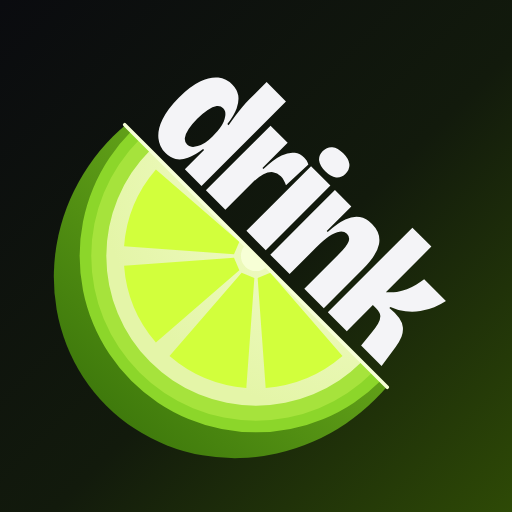
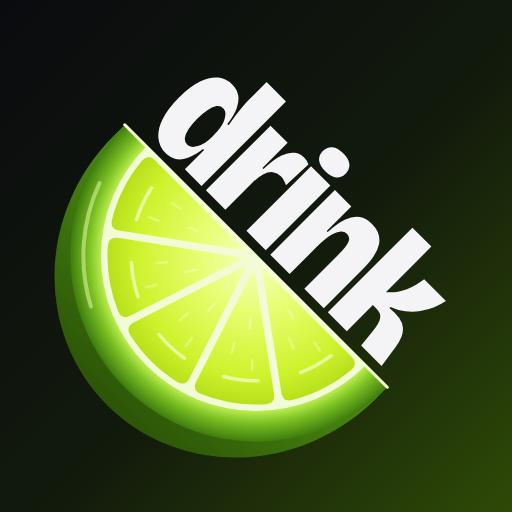
feat(drink): meio limão da marca mais caprichado
Cinco gomos inteiros, com o corte passando entre dois deles (como num
limão de verdade), polpa com brilho de suco, casca com volume e
reflexo. A palavra, o giro e os usos continuam iguais; ícones
refeitos com o desenho novo.

Claude-Session: https://claude.ai/code/session_01Ru2KBTfK6RFCz7MhiDquUf

Changed region(s): [[0.0938, 0.25, 0.75, 0.9062]]

diff --git a/drink/app/index.html b/drink/app/index.html
@@ -130,9 +130,9 @@
     <symbol id="i-cupom" viewBox="0 0 24 24"><path d="M4 7.5A1.5 1.5 0 015.5 6h13A1.5 1.5 0 0120 7.5V10a2 2 0 000 4v2.5a1.5 1.5 0 01-1.5 1.5h-13A1.5 1.5 0 014 16.5V14a2 2 0 000-4z"/><path d="M14.5 6.5v11" style="stroke-dasharray:2 2.2"/></symbol>
     <symbol id="i-carro" viewBox="0 0 24 24"><path d="M3.5 15.5v-3l2-4.6a2 2 0 011.8-1.2h9.4a2 2 0 011.8 1.2l2 4.6v3a1 1 0 01-1 1h-1"/><path d="M8.3 16.5h7.4M5.5 12h13"/><circle cx="6.5" cy="16.5" r="1.8"/><circle cx="17.5" cy="16.5" r="1.8"/></symbol>
     <symbol id="i-limao" viewBox="0 0 32 32"><circle cx="16" cy="16" r="15.2" style="fill:var(--limao-casca, #8CD62A);stroke:none"/><circle cx="16" cy="16" r="12.9" style="fill:var(--limao-miolo, #F3FFC4);stroke:none"/><path style="fill:var(--limao-polpa, #D2FF3C);stroke:none" d="M16.14 14.11L16.83 4.63A11.4 11.4 0 0 1 23.45 7.37L17.24 14.56ZM17.44 14.76L24.63 8.55A11.4 11.4 0 0 1 27.37 15.17L17.89 15.86ZM17.89 16.14L27.37 16.83A11.4 11.4 0 0 1 24.63 23.45L17.44 17.24ZM17.24 17.44L23.45 24.63A11.4 11.4 0 0 1 16.83 27.37L16.14 17.89ZM15.86 17.89L15.17 27.37A11.4 11.4 0 0 1 8.55 24.63L14.76 17.44ZM14.56 17.24L7.37 23.45A11.4 11.4 0 0 1 4.63 16.83L14.11 16.14ZM14.11 15.86L4.63 15.17A11.4 11.4 0 0 1 7.37 8.55L14.56 14.76ZM14.76 14.56L8.55 7.37A11.4 11.4 0 0 1 15.17 4.63L15.86 14.11Z"/></symbol>
-    <!-- a marca: o limão partido ao meio na diagonal e "drink" do outro lado do corte. A palavra segue a cor do texto -->
-    <clipPath id="marca-corte"><path d="M56 500H944V981H56Z"/></clipPath><linearGradient id="marca-casca" x1="0" y1="0" x2="0" y2="1"><stop offset="0" stop-color="#7DBF22"/><stop offset="1" stop-color="#3F7A0C"/></linearGradient><radialGradient id="marca-branco" cx=".5" cy="0" r=".9"><stop offset="0" stop-color="#F7FFD6"/><stop offset="1" stop-color="#E4F5A8"/></radialGradient>
-    <g id="marca-meio"><g clip-path="url(#marca-corte)"><ellipse cx="500" cy="533.3" rx="370" ry="388.5" fill="url(#marca-casca)"/><g transform="translate(130 130) scale(23.1250)"><circle cx="16" cy="16" r="15.2" fill="#8CD62A"/><circle cx="16" cy="16" r="14.2" fill="#A6E33C"/><circle cx="16" cy="16" r="12.9" fill="url(#marca-branco)"/><path fill="#D2FF3C" d="M16.14 14.11L16.83 4.63A11.4 11.4 0 0 1 23.45 7.37L17.24 14.56ZM17.44 14.76L24.63 8.55A11.4 11.4 0 0 1 27.37 15.17L17.89 15.86ZM17.89 16.14L27.37 16.83A11.4 11.4 0 0 1 24.63 23.45L17.44 17.24ZM17.24 17.44L23.45 24.63A11.4 11.4 0 0 1 16.83 27.37L16.14 17.89ZM15.86 17.89L15.17 27.37A11.4 11.4 0 0 1 8.55 24.63L14.76 17.44ZM14.56 17.24L7.37 23.45A11.4 11.4 0 0 1 4.63 16.83L14.11 16.14ZM14.11 15.86L4.63 15.17A11.4 11.4 0 0 1 7.37 8.55L14.56 14.76ZM14.76 14.56L8.55 7.37A11.4 11.4 0 0 1 15.17 4.63L15.86 14.11Z"/><circle cx="16" cy="16" r="1.3" fill="#F7FFD6"/></g></g><path d="M130 500H870" stroke="#F7FFD6" stroke-width="7" stroke-linecap="round"/></g>
+    <!-- a marca: o limão partido ao meio na diagonal (cinco gomos, o corte entre dois deles) e "drink" do outro lado do corte. A palavra segue a cor do texto -->
+    <clipPath id="marca-corte"><path d="M56 500H944V981H56Z"/></clipPath><linearGradient id="marca-lado" x1="0" y1="0" x2="0" y2="1"><stop offset=".5" stop-color="#4A8A12"/><stop offset="1" stop-color="#2C5507"/></linearGradient><radialGradient id="marca-casca" gradientUnits="userSpaceOnUse" cx="500" cy="500" r="370"><stop offset=".84" stop-color="#B4EA4A"/><stop offset=".9" stop-color="#7CC123"/><stop offset="1" stop-color="#3F7D0E"/></radialGradient><radialGradient id="marca-polpa" gradientUnits="userSpaceOnUse" cx="500" cy="500" r="296"><stop offset="0" stop-color="#F6FFC4"/><stop offset=".4" stop-color="#E6FD6E"/><stop offset=".82" stop-color="#CDF22B"/><stop offset="1" stop-color="#B7E01B"/></radialGradient>
+    <g id="marca-meio"><g clip-path="url(#marca-corte)"><ellipse cx="500" cy="531.5" rx="370" ry="388.5" fill="url(#marca-lado)"/><circle cx="500" cy="500" r="370" fill="url(#marca-casca)"/><circle cx="500" cy="500" r="308.9" fill="#F3FBD6"/><path fill="url(#marca-polpa)" d="M522.8,507.4L777.4,507.4Q795.9,507.4 794.9,525.9A296 296 0 0 1 753.8,652.4Q743.7,667.9 728.8,657.1ZM514.1,519.4L720.1,669Q735,679.9 723.3,694.3A296 296 0 0 1 615.8,772.4Q598.5,779.1 592.8,761.5ZM500,523.9L578.7,766.1Q584.4,783.7 566.5,788.4A296 296 0 0 1 433.5,788.4Q415.6,783.7 421.3,766.1ZM485.9,519.4L407.2,761.5Q401.5,779.1 384.2,772.4A296 296 0 0 1 276.7,694.3Q265,679.9 279.9,669ZM477.2,507.4L271.2,657.1Q256.3,667.9 246.2,652.4A296 296 0 0 1 205.1,525.9Q204.1,507.4 222.6,507.4Z"/><path d="M620.6 530.1L640.7 535.1M663.5 569.4L682.6 577.5M703.4 539.5L723.7 543.5M579.9 595.2L593.2 611.1M591.5 652.2L602.1 670M641.3 651.5L655.4 666.7M508.7 624L510.1 644.7M484.5 676.9L482.7 697.6M525.3 705.7L527.8 726.2M434.1 605.4L423.1 623M383.5 634L369.9 649.7M399.5 681.2L389.5 699.3M384.7 546.6L365.5 554.3M327 540L306.8 544.6M312.2 587.6L293.4 596.3" fill="none" stroke="#FFFFF0" stroke-opacity=".32" stroke-width="5" stroke-linecap="round"/><path d="M746.2 534.6A248.6 248.6 0 0 1 727.1 601.1M678.9 672.7A248.6 248.6 0 0 1 624.3 715.3M543.2 744.9A248.6 248.6 0 0 1 474 747.3M391 723.5A248.6 248.6 0 0 1 333.6 684.8M280.5 616.7A248.6 248.6 0 0 1 256.8 551.7" fill="none" stroke="#FFFFF0" stroke-opacity=".6" stroke-width="7" stroke-linecap="round"/><path d="M338.5,803.8A344.1 344.1 0 0 1 176.7,617.7" fill="none" stroke="#E9FFB0" stroke-opacity=".5" stroke-width="8" stroke-linecap="round"/><circle cx="500" cy="500" r="16.6" fill="#F3FBD6"/></g><path d="M130 500H870" stroke="#F7FFD6" stroke-width="6" stroke-linecap="round"/></g>
     <g id="marca-letras"><g transform="translate(500 478) scale(0.345) translate(-980 0)"><path style="fill:currentColor;stroke:none" d="M190 13Q139 13 100 -19Q61 -51 40 -113Q18 -176 18 -267Q18 -360 39 -420Q60 -481 97 -511Q134 -540 182 -540Q222 -540 251 -520Q279 -500 298 -460Q316 -420 324 -358H334Q328 -392 323 -425Q319 -457 316 -487Q313 -517 313 -543V-690H471V-216V0H335V-157H327Q319 -97 301 -59Q283 -22 255 -4Q228 13 190 13ZM243 -110Q258 -110 271 -119Q284 -129 293 -147Q303 -166 309 -191Q314 -216 314 -247V-260Q314 -288 310 -312Q306 -335 299 -353Q292 -370 283 -382Q274 -394 264 -400Q253 -406 242 -406Q221 -406 207 -388Q193 -369 186 -336Q179 -302 179 -257Q179 -214 186 -180Q193 -147 207 -128Q222 -110 243 -110ZM507 0V-292V-528H647V-322H655Q658 -405 674 -451Q691 -498 717 -516Q743 -535 774 -535Q785 -535 797 -533Q809 -530 820 -524L813 -348Q799 -355 785 -359Q770 -363 756 -363Q727 -363 707 -348Q687 -332 676 -301Q666 -270 666 -222V0ZM838 0V-528H996V0ZM917 -565Q872 -565 848 -584Q824 -603 824 -638Q824 -674 848 -693Q872 -712 917 -712Q962 -712 986 -693Q1010 -674 1010 -638Q1010 -603 986 -584Q962 -565 917 -565ZM1033 0V-311V-528H1167V-327H1175Q1179 -403 1196 -450Q1213 -497 1245 -519Q1276 -541 1323 -541Q1398 -541 1434 -487Q1470 -433 1470 -322V0H1311V-291Q1311 -346 1300 -372Q1289 -398 1261 -398Q1237 -398 1222 -377Q1206 -356 1198 -315Q1191 -275 1191 -214V0ZM1503 0V-691H1658V-319Q1684 -341 1702 -365Q1720 -390 1732 -417Q1744 -445 1751 -473Q1758 -501 1762 -528H1940Q1933 -493 1917 -455Q1901 -418 1876 -383Q1851 -348 1816 -321Q1781 -293 1737 -277V-269Q1785 -274 1818 -268Q1851 -262 1871 -245Q1892 -228 1904 -201Q1916 -173 1922 -135L1942 0H1775L1765 -95Q1762 -132 1755 -158Q1749 -184 1733 -199Q1717 -213 1684 -213H1658V0Z"/></g></g>
     <symbol id="i-marca" viewBox="0 0 1000 1000"><g transform="rotate(45 500 500)"><use href="#marca-meio"/><use href="#marca-letras"/></g></symbol>
     <symbol id="i-copo" viewBox="0 0 32 32"><path d="M4 5h24L16 18z" style="fill:var(--copo, #D2FF3C);stroke:none"/><path d="M16 18v9M10 28h12" style="stroke-width:2.4"/><circle cx="21" cy="9" r="3.6" style="stroke-width:2"/><path d="M21 5.4v7.2M17.4 9h7.2" style="stroke-width:1.4"/></symbol>

diff --git a/drink/index.html b/drink/index.html
@@ -70,9 +70,9 @@
     <symbol id="i-cupom" viewBox="0 0 24 24"><path d="M4 7.5A1.5 1.5 0 015.5 6h13A1.5 1.5 0 0120 7.5V10a2 2 0 000 4v2.5a1.5 1.5 0 01-1.5 1.5h-13A1.5 1.5 0 014 16.5V14a2 2 0 000-4z"/><path d="M14.5 6.5v11" style="stroke-dasharray:2 2.2"/></symbol>
     <symbol id="i-carro" viewBox="0 0 24 24"><path d="M3.5 15.5v-3l2-4.6a2 2 0 011.8-1.2h9.4a2 2 0 011.8 1.2l2 4.6v3a1 1 0 01-1 1h-1"/><path d="M8.3 16.5h7.4M5.5 12h13"/><circle cx="6.5" cy="16.5" r="1.8"/><circle cx="17.5" cy="16.5" r="1.8"/></symbol>
     <symbol id="i-limao" viewBox="0 0 32 32"><circle cx="16" cy="16" r="15.2" style="fill:var(--limao-casca, #8CD62A);stroke:none"/><circle cx="16" cy="16" r="12.9" style="fill:var(--limao-miolo, #F3FFC4);stroke:none"/><path style="fill:var(--limao-polpa, #D2FF3C);stroke:none" d="M16.14 14.11L16.83 4.63A11.4 11.4 0 0 1 23.45 7.37L17.24 14.56ZM17.44 14.76L24.63 8.55A11.4 11.4 0 0 1 27.37 15.17L17.89 15.86ZM17.89 16.14L27.37 16.83A11.4 11.4 0 0 1 24.63 23.45L17.44 17.24ZM17.24 17.44L23.45 24.63A11.4 11.4 0 0 1 16.83 27.37L16.14 17.89ZM15.86 17.89L15.17 27.37A11.4 11.4 0 0 1 8.55 24.63L14.76 17.44ZM14.56 17.24L7.37 23.45A11.4 11.4 0 0 1 4.63 16.83L14.11 16.14ZM14.11 15.86L4.63 15.17A11.4 11.4 0 0 1 7.37 8.55L14.56 14.76ZM14.76 14.56L8.55 7.37A11.4 11.4 0 0 1 15.17 4.63L15.86 14.11Z"/></symbol>
-    <!-- a marca: o limão partido ao meio na diagonal e "drink" do outro lado do corte. A palavra segue a cor do texto -->
-    <clipPath id="marca-corte"><path d="M56 500H944V981H56Z"/></clipPath><linearGradient id="marca-casca" x1="0" y1="0" x2="0" y2="1"><stop offset="0" stop-color="#7DBF22"/><stop offset="1" stop-color="#3F7A0C"/></linearGradient><radialGradient id="marca-branco" cx=".5" cy="0" r=".9"><stop offset="0" stop-color="#F7FFD6"/><stop offset="1" stop-color="#E4F5A8"/></radialGradient>
-    <g id="marca-meio"><g clip-path="url(#marca-corte)"><ellipse cx="500" cy="533.3" rx="370" ry="388.5" fill="url(#marca-casca)"/><g transform="translate(130 130) scale(23.1250)"><circle cx="16" cy="16" r="15.2" fill="#8CD62A"/><circle cx="16" cy="16" r="14.2" fill="#A6E33C"/><circle cx="16" cy="16" r="12.9" fill="url(#marca-branco)"/><path fill="#D2FF3C" d="M16.14 14.11L16.83 4.63A11.4 11.4 0 0 1 23.45 7.37L17.24 14.56ZM17.44 14.76L24.63 8.55A11.4 11.4 0 0 1 27.37 15.17L17.89 15.86ZM17.89 16.14L27.37 16.83A11.4 11.4 0 0 1 24.63 23.45L17.44 17.24ZM17.24 17.44L23.45 24.63A11.4 11.4 0 0 1 16.83 27.37L16.14 17.89ZM15.86 17.89L15.17 27.37A11.4 11.4 0 0 1 8.55 24.63L14.76 17.44ZM14.56 17.24L7.37 23.45A11.4 11.4 0 0 1 4.63 16.83L14.11 16.14ZM14.11 15.86L4.63 15.17A11.4 11.4 0 0 1 7.37 8.55L14.56 14.76ZM14.76 14.56L8.55 7.37A11.4 11.4 0 0 1 15.17 4.63L15.86 14.11Z"/><circle cx="16" cy="16" r="1.3" fill="#F7FFD6"/></g></g><path d="M130 500H870" stroke="#F7FFD6" stroke-width="7" stroke-linecap="round"/></g>
+    <!-- a marca: o limão partido ao meio na diagonal (cinco gomos, o corte entre dois deles) e "drink" do outro lado do corte. A palavra segue a cor do texto -->
+    <clipPath id="marca-corte"><path d="M56 500H944V981H56Z"/></clipPath><linearGradient id="marca-lado" x1="0" y1="0" x2="0" y2="1"><stop offset=".5" stop-color="#4A8A12"/><stop offset="1" stop-color="#2C5507"/></linearGradient><radialGradient id="marca-casca" gradientUnits="userSpaceOnUse" cx="500" cy="500" r="370"><stop offset=".84" stop-color="#B4EA4A"/><stop offset=".9" stop-color="#7CC123"/><stop offset="1" stop-color="#3F7D0E"/></radialGradient><radialGradient id="marca-polpa" gradientUnits="userSpaceOnUse" cx="500" cy="500" r="296"><stop offset="0" stop-color="#F6FFC4"/><stop offset=".4" stop-color="#E6FD6E"/><stop offset=".82" stop-color="#CDF22B"/><stop offset="1" stop-color="#B7E01B"/></radialGradient>
+    <g id="marca-meio"><g clip-path="url(#marca-corte)"><ellipse cx="500" cy="531.5" rx="370" ry="388.5" fill="url(#marca-lado)"/><circle cx="500" cy="500" r="370" fill="url(#marca-casca)"/><circle cx="500" cy="500" r="308.9" fill="#F3FBD6"/><path fill="url(#marca-polpa)" d="M522.8,507.4L777.4,507.4Q795.9,507.4 794.9,525.9A296 296 0 0 1 753.8,652.4Q743.7,667.9 728.8,657.1ZM514.1,519.4L720.1,669Q735,679.9 723.3,694.3A296 296 0 0 1 615.8,772.4Q598.5,779.1 592.8,761.5ZM500,523.9L578.7,766.1Q584.4,783.7 566.5,788.4A296 296 0 0 1 433.5,788.4Q415.6,783.7 421.3,766.1ZM485.9,519.4L407.2,761.5Q401.5,779.1 384.2,772.4A296 296 0 0 1 276.7,694.3Q265,679.9 279.9,669ZM477.2,507.4L271.2,657.1Q256.3,667.9 246.2,652.4A296 296 0 0 1 205.1,525.9Q204.1,507.4 222.6,507.4Z"/><path d="M620.6 530.1L640.7 535.1M663.5 569.4L682.6 577.5M703.4 539.5L723.7 543.5M579.9 595.2L593.2 611.1M591.5 652.2L602.1 670M641.3 651.5L655.4 666.7M508.7 624L510.1 644.7M484.5 676.9L482.7 697.6M525.3 705.7L527.8 726.2M434.1 605.4L423.1 623M383.5 634L369.9 649.7M399.5 681.2L389.5 699.3M384.7 546.6L365.5 554.3M327 540L306.8 544.6M312.2 587.6L293.4 596.3" fill="none" stroke="#FFFFF0" stroke-opacity=".32" stroke-width="5" stroke-linecap="round"/><path d="M746.2 534.6A248.6 248.6 0 0 1 727.1 601.1M678.9 672.7A248.6 248.6 0 0 1 624.3 715.3M543.2 744.9A248.6 248.6 0 0 1 474 747.3M391 723.5A248.6 248.6 0 0 1 333.6 684.8M280.5 616.7A248.6 248.6 0 0 1 256.8 551.7" fill="none" stroke="#FFFFF0" stroke-opacity=".6" stroke-width="7" stroke-linecap="round"/><path d="M338.5,803.8A344.1 344.1 0 0 1 176.7,617.7" fill="none" stroke="#E9FFB0" stroke-opacity=".5" stroke-width="8" stroke-linecap="round"/><circle cx="500" cy="500" r="16.6" fill="#F3FBD6"/></g><path d="M130 500H870" stroke="#F7FFD6" stroke-width="6" stroke-linecap="round"/></g>
     <g id="marca-letras"><g transform="translate(500 478) scale(0.345) translate(-980 0)"><path style="fill:currentColor;stroke:none" d="M190 13Q139 13 100 -19Q61 -51 40 -113Q18 -176 18 -267Q18 -360 39 -420Q60 -481 97 -511Q134 -540 182 -540Q222 -540 251 -520Q279 -500 298 -460Q316 -420 324 -358H334Q328 -392 323 -425Q319 -457 316 -487Q313 -517 313 -543V-690H471V-216V0H335V-157H327Q319 -97 301 -59Q283 -22 255 -4Q228 13 190 13ZM243 -110Q258 -110 271 -119Q284 -129 293 -147Q303 -166 309 -191Q314 -216 314 -247V-260Q314 -288 310 -312Q306 -335 299 -353Q292 -370 283 -382Q274 -394 264 -400Q253 -406 242 -406Q221 -406 207 -388Q193 -369 186 -336Q179 -302 179 -257Q179 -214 186 -180Q193 -147 207 -128Q222 -110 243 -110ZM507 0V-292V-528H647V-322H655Q658 -405 674 -451Q691 -498 717 -516Q743 -535 774 -535Q785 -535 797 -533Q809 -530 820 -524L813 -348Q799 -355 785 -359Q770 -363 756 -363Q727 -363 707 -348Q687 -332 676 -301Q666 -270 666 -222V0ZM838 0V-528H996V0ZM917 -565Q872 -565 848 -584Q824 -603 824 -638Q824 -674 848 -693Q872 -712 917 -712Q962 -712 986 -693Q1010 -674 1010 -638Q1010 -603 986 -584Q962 -565 917 -565ZM1033 0V-311V-528H1167V-327H1175Q1179 -403 1196 -450Q1213 -497 1245 -519Q1276 -541 1323 -541Q1398 -541 1434 -487Q1470 -433 1470 -322V0H1311V-291Q1311 -346 1300 -372Q1289 -398 1261 -398Q1237 -398 1222 -377Q1206 -356 1198 -315Q1191 -275 1191 -214V0ZM1503 0V-691H1658V-319Q1684 -341 1702 -365Q1720 -390 1732 -417Q1744 -445 1751 -473Q1758 -501 1762 -528H1940Q1933 -493 1917 -455Q1901 -418 1876 -383Q1851 -348 1816 -321Q1781 -293 1737 -277V-269Q1785 -274 1818 -268Q1851 -262 1871 -245Q1892 -228 1904 -201Q1916 -173 1922 -135L1942 0H1775L1765 -95Q1762 -132 1755 -158Q1749 -184 1733 -199Q1717 -213 1684 -213H1658V0Z"/></g></g>
     <symbol id="i-marca" viewBox="0 0 1000 1000"><g transform="rotate(45 500 500)"><use href="#marca-meio"/><use href="#marca-letras"/></g></symbol>
     <symbol id="i-copo" viewBox="0 0 32 32"><path d="M4 5h24L16 18z" style="fill:var(--copo, #D2FF3C);stroke:none"/><path d="M16 18v9M10 28h12" style="stroke-width:2.4"/><circle cx="21" cy="9" r="3.6" style="stroke-width:2"/><path d="M21 5.4v7.2M17.4 9h7.2" style="stroke-width:1.4"/></symbol>
